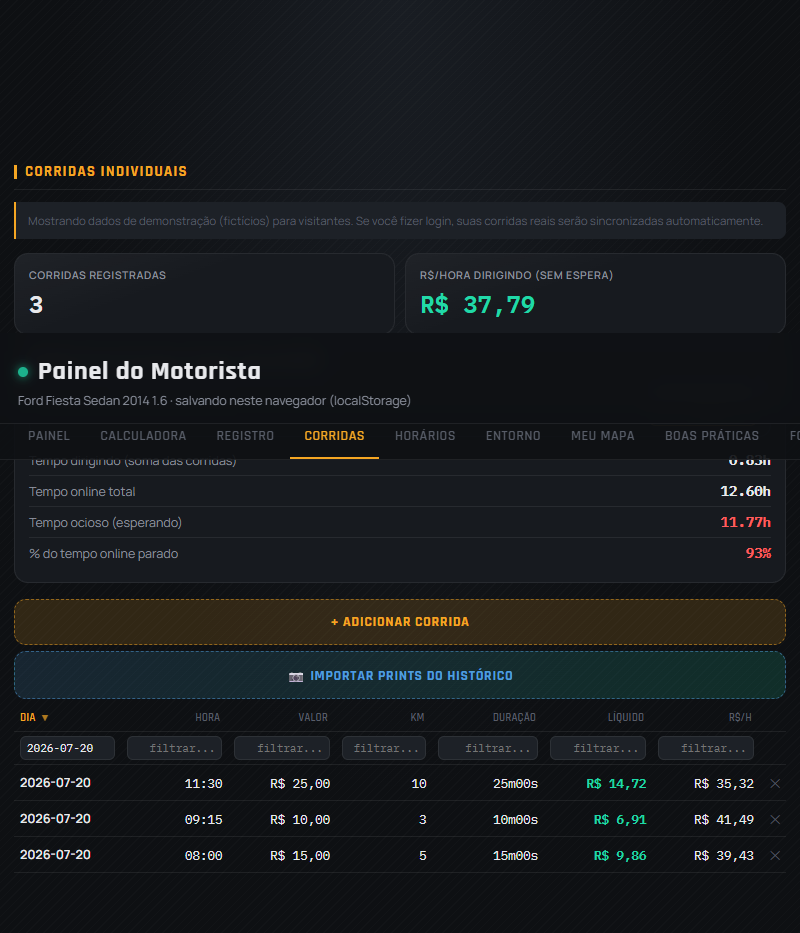
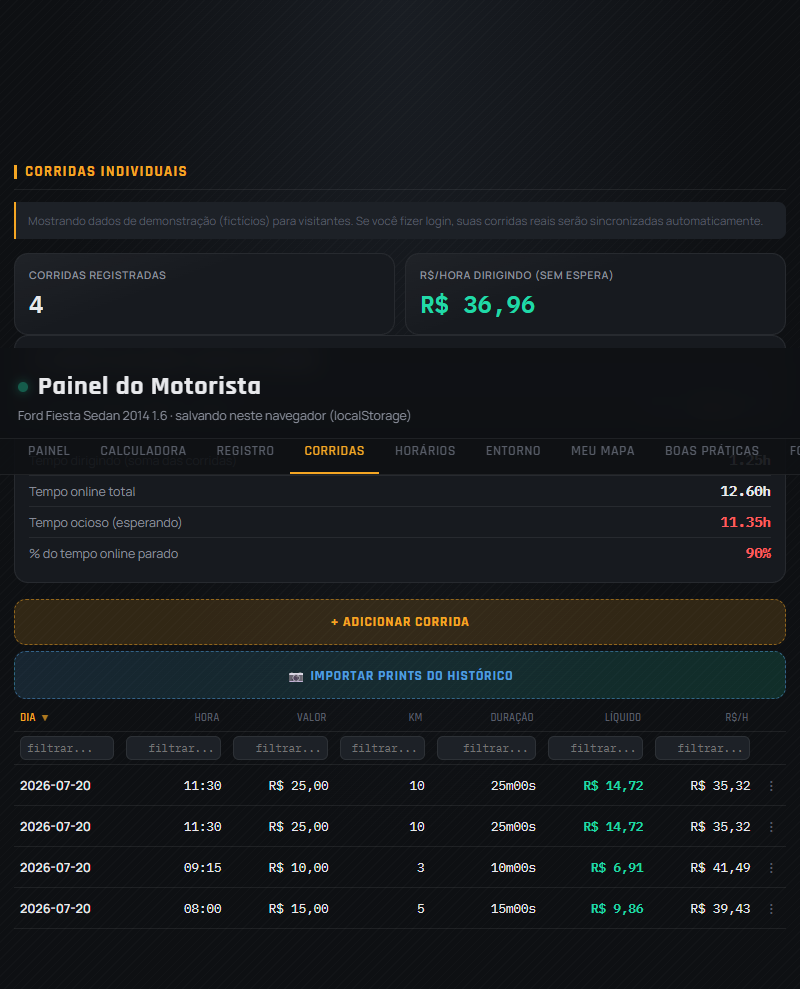
feat(corridas): Task 3 - menu de acoes por corrida (Editar/Duplicar/Excluir)
- Substitui botao X por menu contextual (tres pontinhos) em cada linha
- Editar: abre modal pre-preenchido com dados da corrida
- Duplicar: clona corrida com novo id via Date.now().toString()
- Excluir: remove corrida (mesmo comportamento anterior do X)
- CSS para .row-actions-wrap, .row-menu, .row-menu-item
- Modal suporta modo edicao (titulo 'Editar corrida') e modo novo
- Testes Puppeteer atualizados para cobrir menu, duplicar e editar

diff --git a/index.html b/index.html
@@ -215,6 +215,30 @@
   .table-scroll{ overflow-x:auto; }
   .table-scroll table{ min-width:640px; }
 
+  /* ---------- row actions menu (⋮) ---------- */
+  .row-actions-wrap{ position:relative; display:inline-block; }
+  .row-actions-btn{
+    background:none; border:none; color:var(--ink-faint); cursor:pointer;
+    font-size:18px; line-height:1; padding:2px 6px; border-radius:6px;
+    transition:background .15s, color .15s;
+  }
+  .row-actions-btn:hover{ background:var(--panel-raised); color:var(--ink); }
+  .row-menu{
+    display:none; position:absolute; right:0; top:100%; z-index:30;
+    background:var(--panel-raised); border:1px solid var(--line); border-radius:10px;
+    min-width:140px; padding:4px 0; box-shadow:0 8px 24px rgba(0,0,0,0.45);
+    animation:fadeIn .15s ease;
+  }
+  .row-menu.open{ display:block; }
+  .row-menu-item{
+    display:block; width:100%; background:none; border:none; color:var(--ink);
+    font-family:'Manrope',sans-serif; font-size:13px; font-weight:500;
+    padding:9px 14px; text-align:left; cursor:pointer; transition:background .12s;
+  }
+  .row-menu-item:hover{ background:rgba(255,255,255,0.06); }
+  .row-menu-item.danger{ color:var(--red); }
+  .row-menu-item.danger:hover{ background:var(--red-dim); }
+
   /* ---------- horarios / referencia ---------- */
   .region-card{
     background:var(--panel); border:1px solid var(--line); border-radius:14px; margin-bottom:12px; overflow:hidden;
@@ -1518,15 +1542,60 @@ function renderCorridas(){
       <td>${fmtDuracao(c.duracaoSeg)}</td>
       <td class="${c.liquido>=0?'liq-pos':'liq-neg'}">${BRL(c.liquido)}</td>
       <td>${BRL(c.rsHora)}</td>
-      <td><span class="del-x" data-id="${c.id}">✕</span></td>
+      <td>
+        <div class="row-actions-wrap">
+          <button class="row-actions-btn" data-id="${c.id}" title="Ações">⋮</button>
+          <div class="row-menu" data-menu-id="${c.id}">
+            <button class="row-menu-item" data-action="editar" data-id="${c.id}">✏️ Editar</button>
+            <button class="row-menu-item" data-action="duplicar" data-id="${c.id}">📋 Duplicar</button>
+            <button class="row-menu-item danger" data-action="excluir" data-id="${c.id}">🗑️ Excluir</button>
+          </div>
+        </div>
+      </td>
     `;
     tbody.appendChild(tr);
   });
-  tbody.querySelectorAll('.del-x').forEach(el=>{
-    el.addEventListener('click', async()=>{
-      corridas = corridas.filter(c=>c.id !== el.dataset.id);
-      await saveData('corridas', corridas);
-      renderCorridas();
+
+  // ⋮ menu toggle
+  tbody.querySelectorAll('.row-actions-btn').forEach(btn=>{
+    btn.addEventListener('click', (e)=>{
+      e.stopPropagation();
+      const menu = btn.nextElementSibling;
+      // close all other menus first
+      document.querySelectorAll('.row-menu.open').forEach(m=>{ if(m!==menu) m.classList.remove('open'); });
+      menu.classList.toggle('open');
+    });
+  });
+
+  // Close menus on outside click
+  document.addEventListener('click', ()=>{
+    document.querySelectorAll('.row-menu.open').forEach(m=>m.classList.remove('open'));
+  }, {once:false});
+
+  // Menu actions
+  tbody.querySelectorAll('.row-menu-item').forEach(item=>{
+    item.addEventListener('click', async (e)=>{
+      e.stopPropagation();
+      const id = item.dataset.id;
+      const action = item.dataset.action;
+      // Close menu
+      item.closest('.row-menu').classList.remove('open');
+
+      if(action === 'excluir'){
+        corridas = corridas.filter(c=>c.id !== id);
+        await saveData('corridas', corridas);
+        renderCorridas();
+      } else if(action === 'duplicar'){
+        const orig = corridas.find(c=>c.id === id);
+        if(!orig) return;
+        const clone = {...orig, id: Date.now().toString()};
+        corridas.push(clone);
+        await saveData('corridas', corridas);
+        renderCorridas();
+        toast('Corrida duplicada');
+      } else if(action === 'editar'){
+        openCorridaEditModal(id);
+      }
     });
   });
 
@@ -1566,13 +1635,30 @@ async function computeIdleTime(){
 document.getElementById('cr-online-horas').addEventListener('input', computeIdleTime);
 
 const corridaModal = document.getElementById('modal-corrida-backdrop');
+let editingCorridaId = null; // null = new, string = editing existing
+
+function openCorridaEditModal(id){
+  const c = corridas.find(x=>x.id === id);
+  if(!c) return;
+  editingCorridaId = id;
+  document.getElementById('c-data').value = c.data || '';
+  document.getElementById('c-hora').value = c.hora || '';
+  document.getElementById('c-valor').value = c.valor || '';
+  document.getElementById('c-km').value = c.km || '';
+  document.getElementById('c-duracao-min').value = c.duracaoSeg ? (c.duracaoSeg/60).toFixed(1) : '';
+  document.querySelector('#modal-corrida-backdrop h3').textContent = 'Editar corrida';
+  corridaModal.classList.add('open');
+}
+
 document.getElementById('btn-add-corrida').addEventListener('click', ()=>{
+  editingCorridaId = null;
   const now = new Date();
   document.getElementById('c-data').value = now.toISOString().slice(0,10);
   document.getElementById('c-hora').value = now.toTimeString().slice(0,5);
   document.getElementById('c-valor').value = '';
   document.getElementById('c-km').value = '';
   document.getElementById('c-duracao-min').value = '';
+  document.querySelector('#modal-corrida-backdrop h3').textContent = 'Nova corrida';
   corridaModal.classList.add('open');
 });
 document.getElementById('c-cancel').addEventListener('click', ()=> corridaModal.classList.remove('open'));
@@ -1581,17 +1667,30 @@ document.getElementById('c-save').addEventListener('click', async ()=>{
   const valor = parseFloat(document.getElementById('c-valor').value) || 0;
   const km = parseFloat(document.getElementById('c-km').value) || 0;
   const duracaoMin = parseFloat(document.getElementById('c-duracao-min').value) || 0;
-  corridas.push({
-    id: Date.now().toString(),
-    data: document.getElementById('c-data').value,
-    hora: document.getElementById('c-hora').value,
-    valor, km,
-    duracaoSeg: Math.round(duracaoMin*60),
-  });
+  if(editingCorridaId){
+    const idx = corridas.findIndex(c=>c.id === editingCorridaId);
+    if(idx >= 0){
+      corridas[idx].data = document.getElementById('c-data').value;
+      corridas[idx].hora = document.getElementById('c-hora').value;
+      corridas[idx].valor = valor;
+      corridas[idx].km = km;
+      corridas[idx].duracaoSeg = Math.round(duracaoMin*60);
+    }
+    editingCorridaId = null;
+    toast('Corrida atualizada');
+  } else {
+    corridas.push({
+      id: Date.now().toString(),
+      data: document.getElementById('c-data').value,
+      hora: document.getElementById('c-hora').value,
+      valor, km,
+      duracaoSeg: Math.round(duracaoMin*60),
+    });
+    toast('Corrida salva');
+  }
   await saveData('corridas', corridas);
   corridaModal.classList.remove('open');
   renderCorridas();
-  toast('Corrida salva');
 });
 
 /* ============================================================

diff --git a/scripts/test-corridas-ui.js b/scripts/test-corridas-ui.js
@@ -1,5 +1,5 @@
 // scripts/test-corridas-ui.js
-// Automated UI test for the Corridas table: sorting, filtering, arrow toggle.
+// Automated UI test for the Corridas table: sorting, filtering, arrow toggle, and row menu.
 // Run with: node scripts/test-corridas-ui.js
 
 const puppeteer = require('puppeteer');
@@ -72,10 +72,115 @@ console.log(JSON.stringify({storageMode, loginOverlay, modalVisible, magicLinkBt
    await new Promise(r => setTimeout(r, 500));
   const arrow2 = await getArrow('data');
 
+  console.log('=== SORT/FILTER RESULTS ===');
+  console.log(JSON.stringify({arrow1, arrow2, rowsAfterFilter}));
+
+  // 4. Clear filter to show all rows for menu test
+  await page.evaluate(() => {
+    const input = document.querySelector('#corridas-filter-row input[data-key="data"]');
+    if(input){ input.value = ''; input.dispatchEvent(new Event('input', {bubbles:true})); }
+  });
+  await new Promise(r => setTimeout(r, 500));
+
+  // === ROW MENU TESTS ===
+  console.log('=== ROW MENU TESTS ===');
+
+  // 5. Check that ⋮ buttons exist
+  const menuBtnCount = await page.$$eval('.row-actions-btn', btns => btns.length);
+  console.log('MENU BUTTONS COUNT:', menuBtnCount);
+
+  // 6. Click the first ⋮ button to open the menu
+  await page.click('.row-actions-btn');
+  await new Promise(r => setTimeout(r, 300));
+  const menuOpen = await page.$eval('.row-menu', m => m.classList.contains('open'));
+  console.log('MENU OPEN AFTER CLICK:', menuOpen);
+
+  // 7. Verify menu items
+  const menuItems = await page.$$eval('.row-menu.open .row-menu-item', items =>
+    items.map(i => ({action: i.dataset.action, text: i.textContent.trim()}))
+  );
+  console.log('MENU ITEMS:', JSON.stringify(menuItems));
+
+  // 8. Test Duplicar: count rows before, click Duplicar, count rows after
+  // First close any open menus from previous tests
+  await page.evaluate(() => {
+    document.querySelectorAll('.row-menu.open').forEach(m => m.classList.remove('open'));
+  });
+  await new Promise(r => setTimeout(r, 200));
+  const rowsBefore = await page.$$eval('#corridas-tbody tr', rows => rows.length);
+  // Open menu and click Duplicar in a single evaluate
+  const dupDebug = await page.evaluate(() => {
+    const lenBefore = typeof corridas !== 'undefined' ? corridas.length : -1;
+    const btn = document.querySelector('.row-actions-btn');
+    // Directly open the menu (don't toggle via click — go straight)
+    const menu = btn.nextElementSibling;
+    menu.classList.add('open');
+    const menuIsOpen = menu.classList.contains('open');
+    const item = menu.querySelector('.row-menu-item[data-action="duplicar"]');
+    const itemFound = !!item;
+    if(item) item.click();
+    const lenAfterClick = typeof corridas !== 'undefined' ? corridas.length : -1;
+    return {lenBefore, menuIsOpen, itemFound, lenAfterClick};
+  });
+  console.log('DUP DEBUG:', JSON.stringify(dupDebug));
+  await new Promise(r => setTimeout(r, 1000));
+  const corridasLenAfterWait = await page.evaluate(() => typeof corridas !== 'undefined' ? corridas.length : -1);
+  console.log('CORRIDAS LENGTH AFTER WAIT:', corridasLenAfterWait);
+  const rowsAfterDuplicate = await page.$$eval('#corridas-tbody tr', rows => rows.length);
+  console.log('ROWS BEFORE DUPLICATE:', rowsBefore, '-> AFTER:', rowsAfterDuplicate);
+
+  // 9. Test Editar: open menu, click Editar, check modal appears with 'Editar corrida' title
+  await page.evaluate(() => {
+    const btn = document.querySelector('.row-actions-btn');
+    btn.click();
+  });
+  await new Promise(r => setTimeout(r, 300));
+  await page.evaluate(() => {
+    const item = document.querySelector('.row-menu.open .row-menu-item[data-action="editar"]');
+    if(item) item.click();
+  });
+  await new Promise(r => setTimeout(r, 500));
+  const modalTitle = await page.$eval('#modal-corrida-backdrop h3', el => el.textContent.trim());
+  const modalIsOpen = await page.$eval('#modal-corrida-backdrop', el => el.classList.contains('open'));
+  console.log('EDIT MODAL TITLE:', modalTitle, '| OPEN:', modalIsOpen);
+  // Close modal
+  await page.click('#c-cancel');
+  await new Promise(r => setTimeout(r, 300));
+
   // Screenshot of final state
   const screenshotPath = path.join(__dirname, 'corridas-sort-filter-test.png');
   await page.screenshot({path: screenshotPath, fullPage: true});
 
-  console.log(JSON.stringify({arrow1, arrow2, rowsAfterFilter, screenshotPath}));
+  console.log('=== FINAL RESULTS ===');
+  console.log(JSON.stringify({
+    arrow1, arrow2, rowsAfterFilter,
+    menuBtnCount, menuOpen, menuItems,
+    rowsBefore, rowsAfterDuplicate,
+    modalTitle, modalIsOpen,
+    screenshotPath
+  }));
+
+  // Assertions
+  const failures = [];
+  if(arrow1 !== '▲') failures.push(`arrow1 expected ▲ got ${arrow1}`);
+  if(arrow2 !== '▼') failures.push(`arrow2 expected ▼ got ${arrow2}`);
+  if(menuBtnCount < 1) failures.push(`expected at least 1 menu button, got ${menuBtnCount}`);
+  if(!menuOpen) failures.push('menu did not open on click');
+  if(menuItems.length !== 3) failures.push(`expected 3 menu items, got ${menuItems.length}`);
+  const actions = menuItems.map(i => i.action);
+  if(!actions.includes('editar')) failures.push('missing editar action');
+  if(!actions.includes('duplicar')) failures.push('missing duplicar action');
+  if(!actions.includes('excluir')) failures.push('missing excluir action');
+  if(rowsAfterDuplicate !== rowsBefore + 1) failures.push(`duplicate should add 1 row: ${rowsBefore} -> ${rowsAfterDuplicate}`);
+  if(modalTitle !== 'Editar corrida') failures.push(`modal title expected 'Editar corrida' got '${modalTitle}'`);
+  if(!modalIsOpen) failures.push('edit modal did not open');
+
+  if(failures.length > 0){
+    console.log('FAILURES:', failures);
+    process.exit(1);
+  } else {
+    console.log('ALL TESTS PASSED');
+  }
+
   await browser.close();
 })();